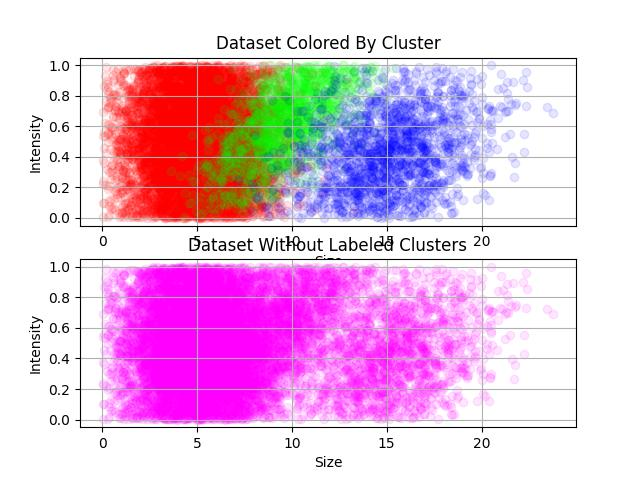
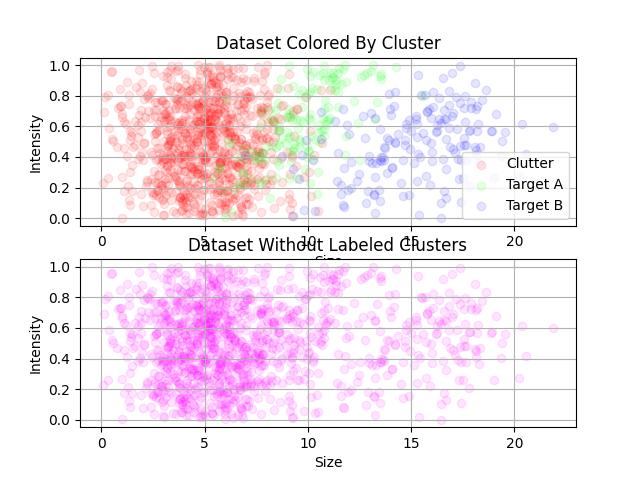
Add legend to dataset plot

diff --git a/main.py b/main.py
@@ -144,12 +144,13 @@ class Simulator:
         def features(self) -> numpy.ndarray: ...
 
 
-def plot_cluster(identifier: int, color: typing.List[int]) -> None:
+def plot_cluster(identifier: int, color: typing.List[int], label: str = "") -> None:
     matplotlib.pyplot.scatter(
         numpy.extract(dataset[0, :] == identifier, dataset[1, :]),
         numpy.extract(dataset[0, :] == identifier, dataset[2, :]),
         color=color,
         alpha=0.1,
+        label=label,
     )
 
 
@@ -226,16 +227,17 @@ if __name__ == "__main__":
     )
 
     # Generate the dataset
-    NUMBER_OF_SCANS = 2000
+    NUMBER_OF_SCANS = 200
     simulator = Simulator([clutter, target_a, target_b], NUMBER_OF_SCANS)
     dataset = simulator.run_simulation()
 
     # Visualize the dataset
     matplotlib.pyplot.subplot(2, 1, 1)
-    plot_cluster(0, [1, 0, 0])
-    plot_cluster(1, [0, 1, 0])
-    plot_cluster(2, [0, 0, 1])
+    plot_cluster(0, [1, 0, 0], "Clutter")
+    plot_cluster(1, [0, 1, 0], "Target A")
+    plot_cluster(2, [0, 0, 1], "Target B")
     matplotlib.pyplot.grid()
+    matplotlib.pyplot.legend()
     matplotlib.pyplot.title("Dataset Colored By Cluster")
     matplotlib.pyplot.xlabel("Size")
     matplotlib.pyplot.ylabel("Intensity")
